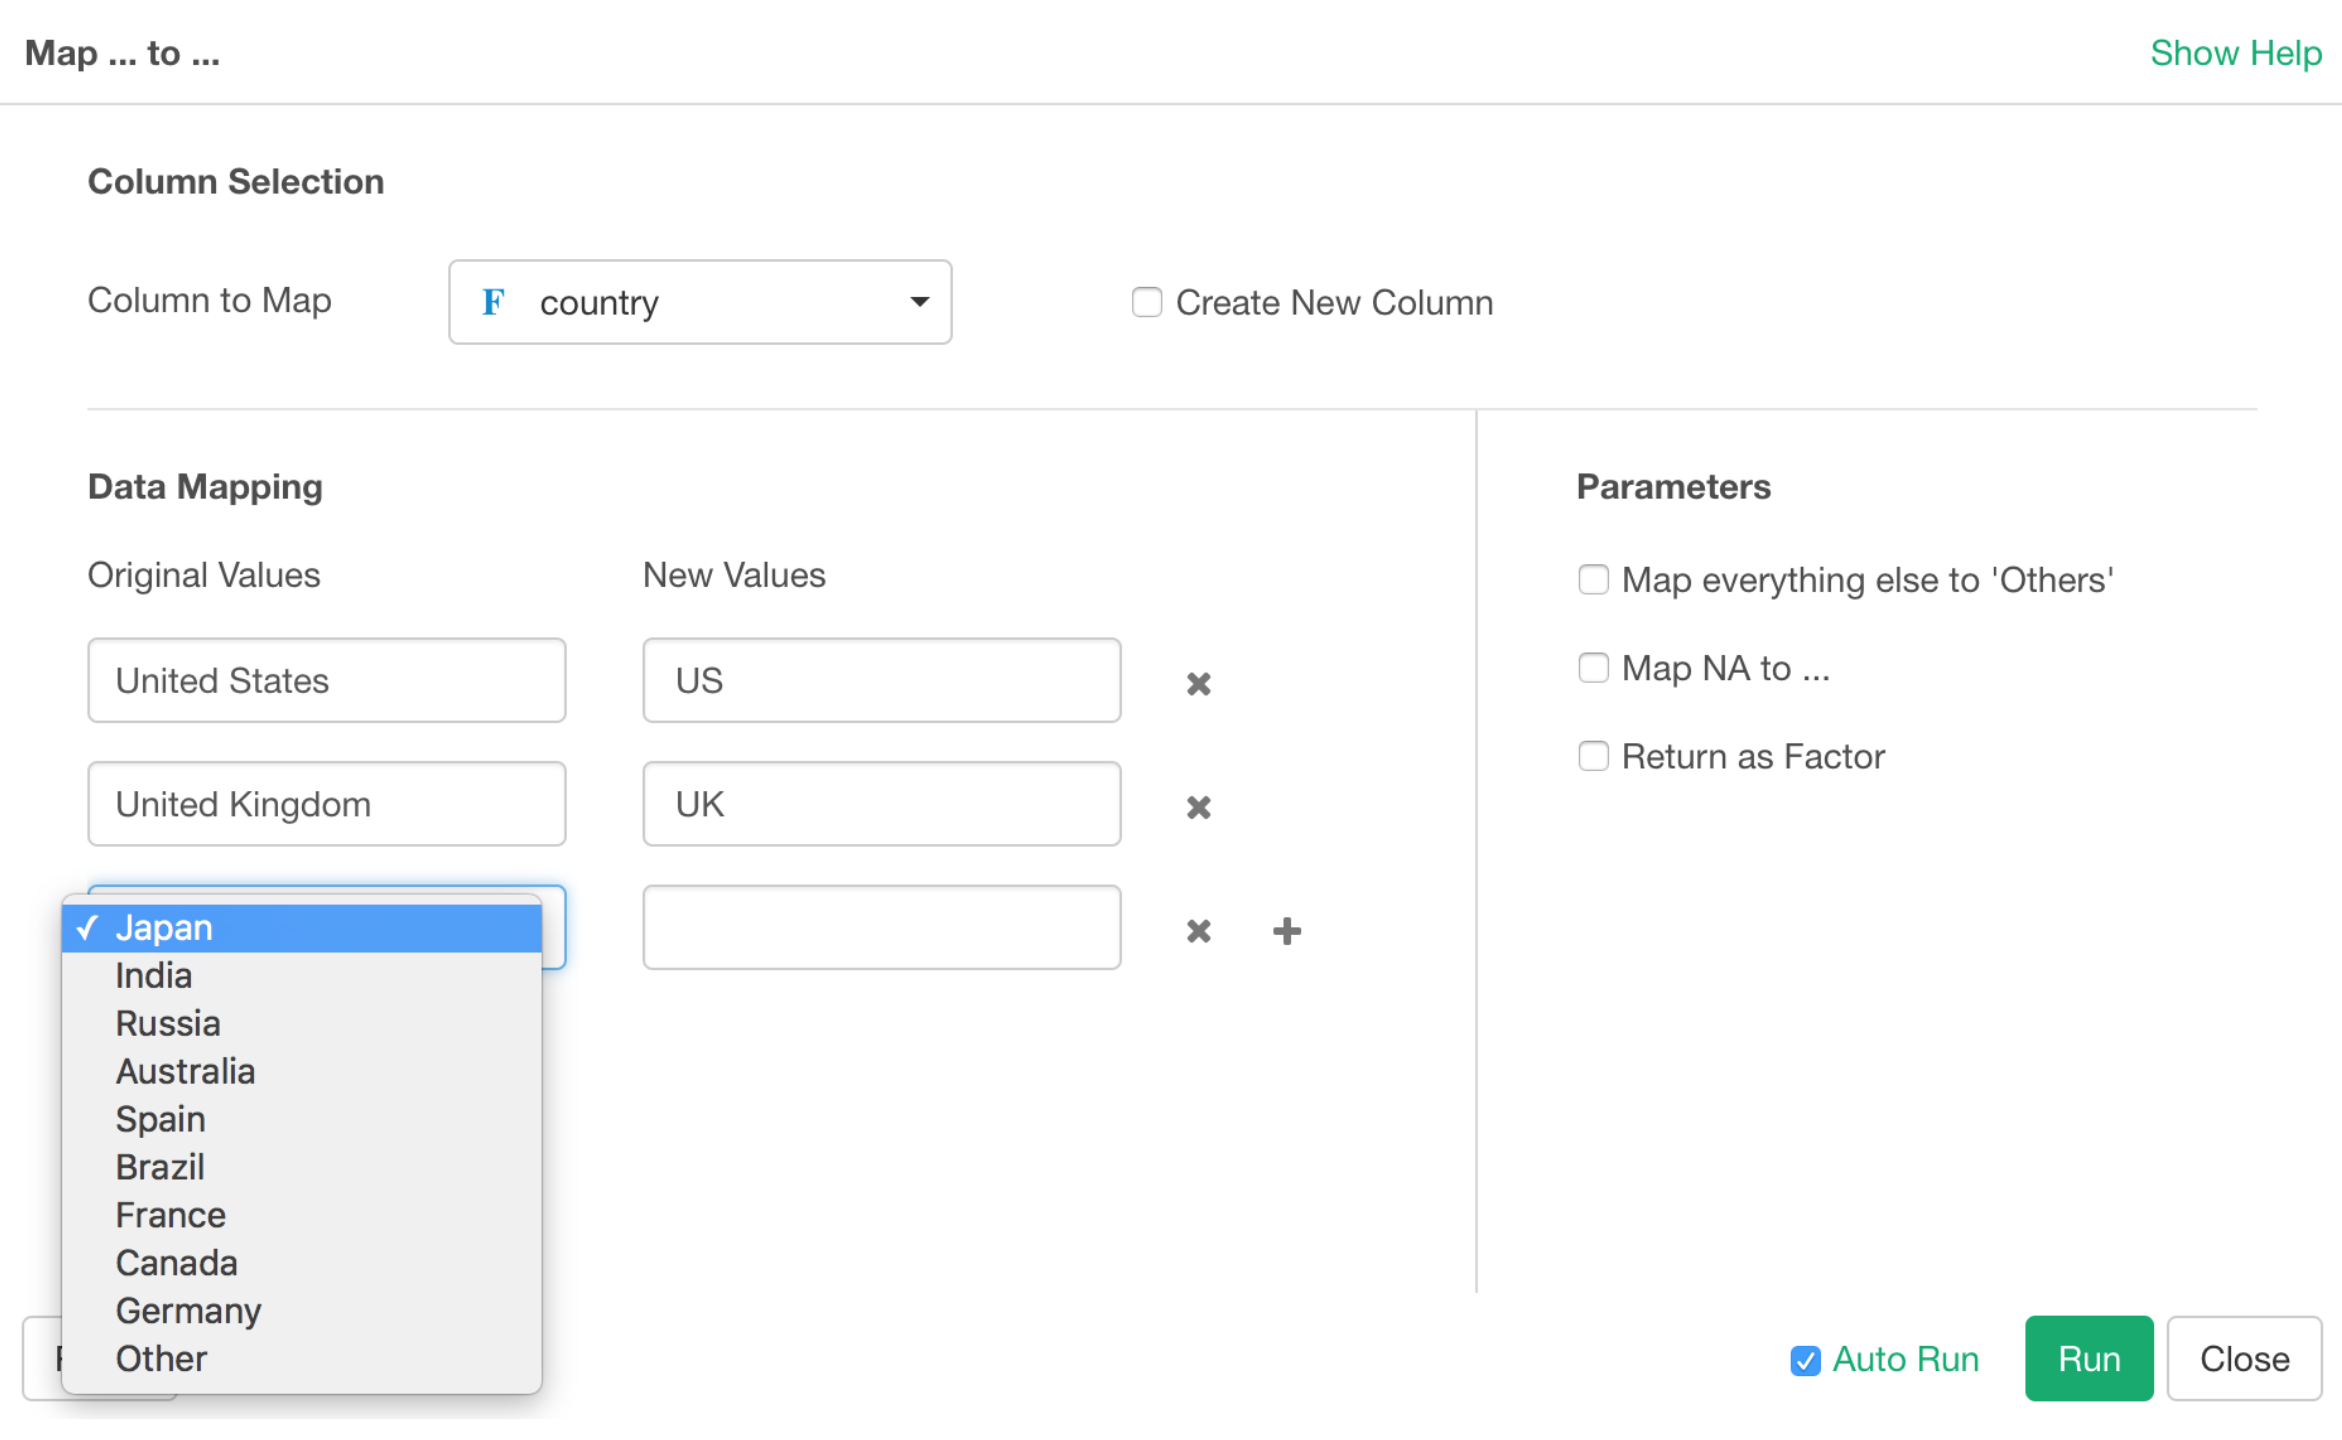
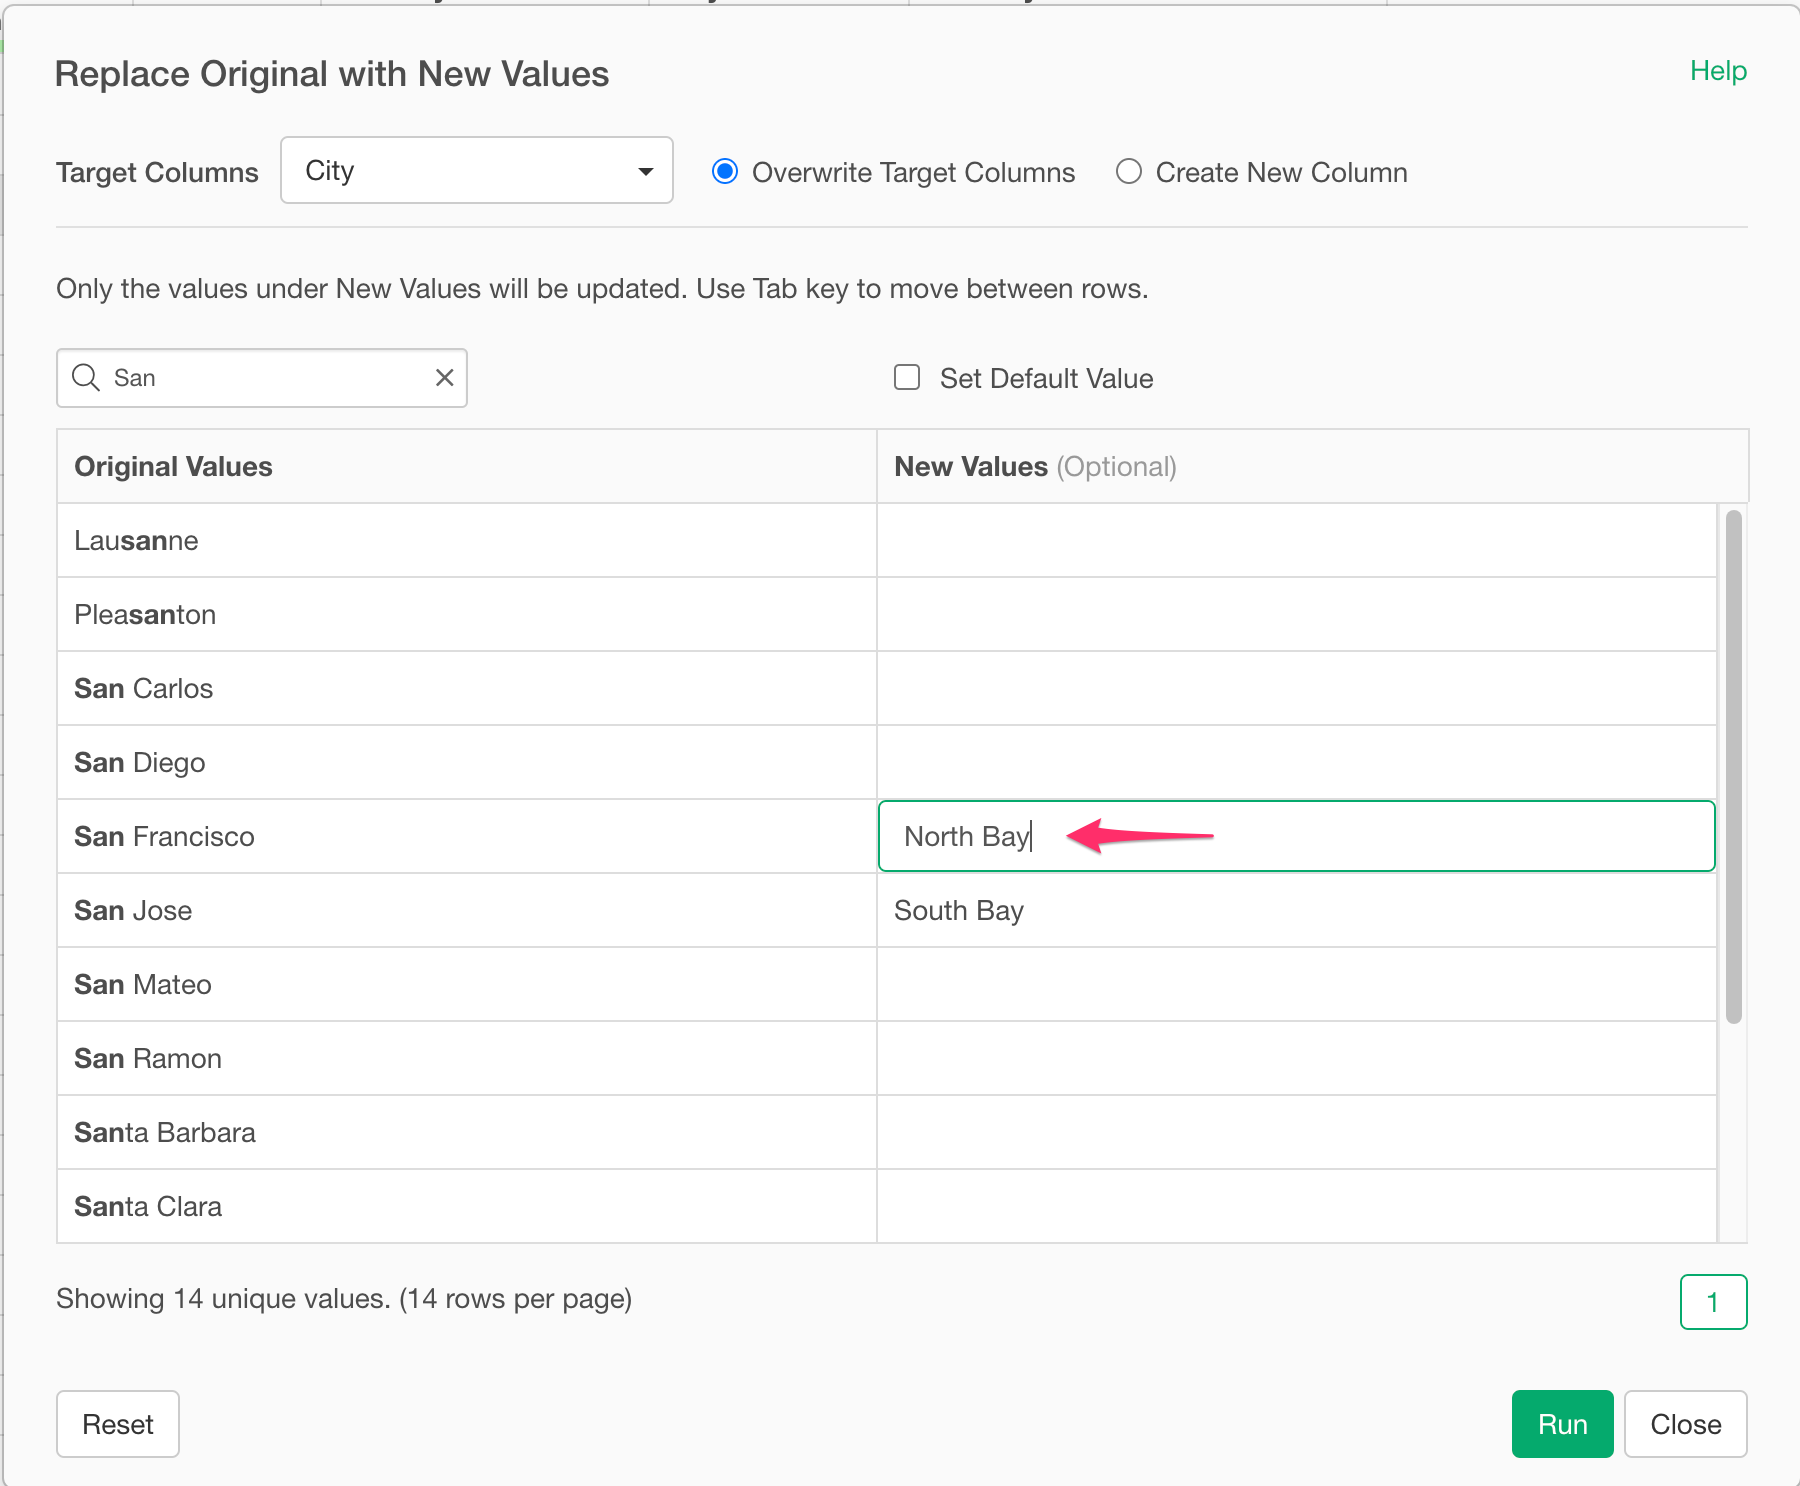
Updated recode dialog.

diff --git a/wrangling/recode.md b/wrangling/recode.md
@@ -6,20 +6,19 @@ You can map existing values to new values by using easy-to-use dialog UI.
 
 ![](images/recode.png)
 
-* From Column Menu on Character Column, select "Map / Convert Data" -> "Map ... to ...".
+* From the Column Menu on a Character Column, select "Replace Values" -> "With New Values".
 
 ## How to Use?
 
-### One to One mapping
+### Select Target Columns
 
-To simply map an item to a new one, you can select values from the dropdown and assign new values.
+You can select a column or multiple columns for this operation. To select multiple columns, check the checkboxes for the columns you want to perform this operation.
+
+![](images/recode_multiple_columns.png)
+
+### Set New Values
+
+To map multiple Existing Values to a same New Value, you can simply type in the new values.
+For example, if you want to set `North Bay` for San Francisco and `South Bay` for San Jose, type in the values like the below screenshot.
 
 ![](images/recode2.png) 
-
-### Map multiple Existing Values to a same New Value.
-
-To map multiple Existing Values to a same New Value, you can select existing values from the dropdown and assign the same New Value to each existing value.
-
-For example, if you want to recode `SFO` (San Francisco International Airport), `OAK` (Oakland International Airport), and `SJC` (San Jose International Airport) to `California`, then you can assign `California` for all these three values as follows.
-
-![](images/recode3.png) 
